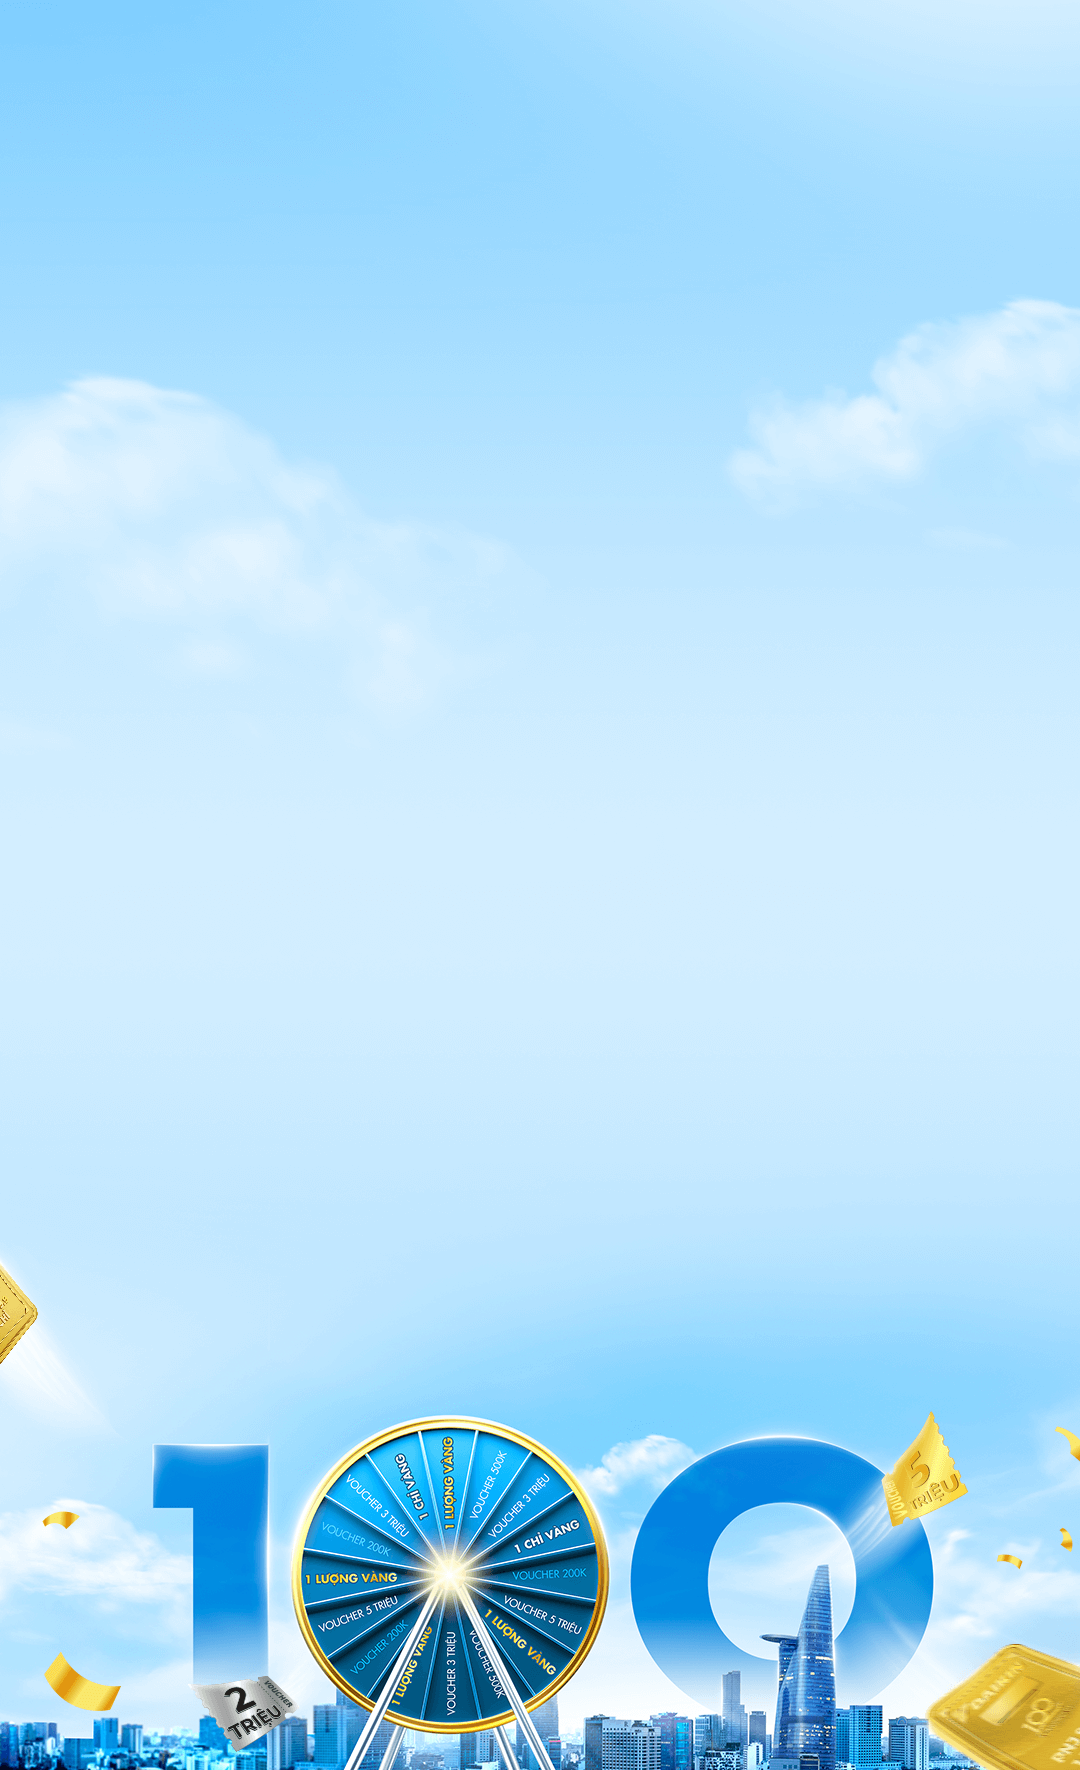
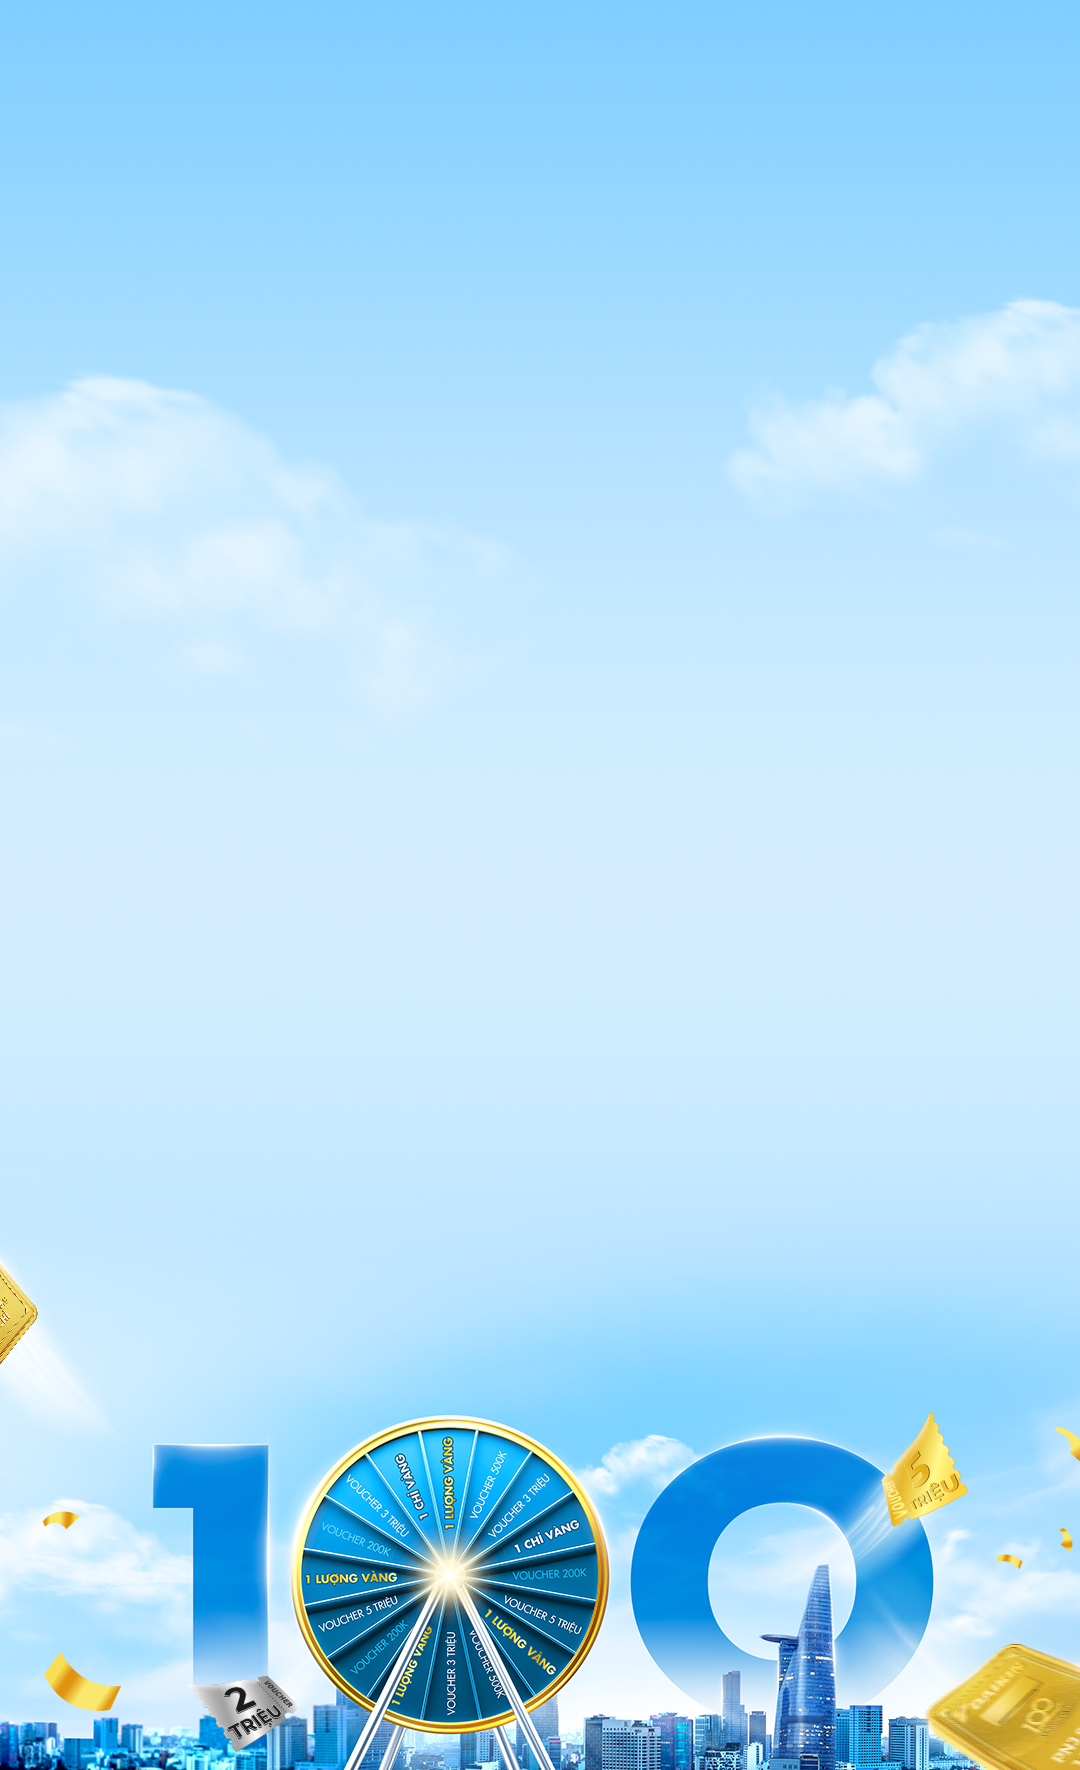
update bg-mobile

Changed region(s): [[0.4278, 0.0, 1.0, 0.1243]]

diff --git a/css/style.css b/css/style.css
@@ -3355,45 +3355,44 @@ p.error-2{
 
 @media screen and (max-width: 767px){
   .page-main{
-      background-image: url(../images/bg-gift.png);
+     background-image: url(../images/bg-gift.png), linear-gradient(to right, #7dceff, #80cfff);
       background-size: 100% auto;
         background-position: center bottom;
     background-repeat: no-repeat;
-    background-color: #84d1ff;
+    
   }
   .page-dapdung{
-      background-image: url(../images/img-thele.png);
+      background-image: url(../images/img-thele.png), linear-gradient(to right, #7dceff, #80cfff);
       background-size: 100% auto;
         background-position: center bottom;
     background-repeat: no-repeat;
-    background-color: #84d1ff;
+    
   }
   .page-dieu-khoan{
-     background-image: url(../images/img-thele.png);
+     background-image: url(../images/img-thele.png), linear-gradient(to right, #7dceff, #80cfff);
       background-size: 100% auto;
         background-position: center bottom;
     background-repeat: no-repeat;
-    background-color: #81cfff;
   }
   .page-hanhtrinh{
-     background-image: url(../images/bg-hanhtrinh-mb.jpg);
+     background-image: url(../images/bg-hanhtrinh-mb.jpg), linear-gradient(to right, #7dceff, #80cfff);
       background-size: 100% auto;
         background-position: center bottom;
     background-repeat: no-repeat;
-    background-color: #84d1ff;
+    
   }
   .page-nhanthuong01{
-    background-image: url(../images/bg-form-gift.png);
+    background-image: url(../images/bg-form-gift.png), linear-gradient(to right, #7dceff, #80cfff);
       background-size: 100% auto;
         background-position: center bottom;
     background-repeat: no-repeat;
-    background-color: #84d1ff;
+    
   }
   .page-ketthuc-03{
-    background-image: url(../images/img-thele.png);
+    background-image: url(../images/img-thele.png), linear-gradient(to right, #7dceff, #80cfff);
       background-size: 100% auto;
         background-position: center bottom;
     background-repeat: no-repeat;
-    background-color: #84d1ff;
+    
   }
 }
